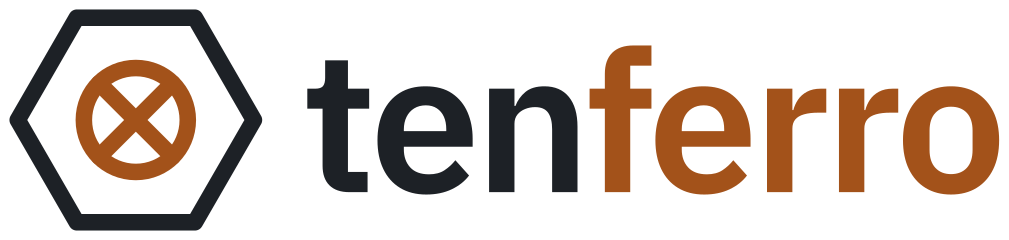
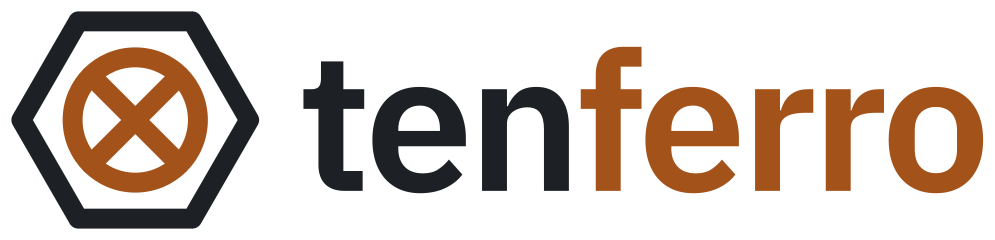
design: tighten the tenferro nut around its hole
Shrink the hex nut from circumradius 50 to 40 so it sits snugly around
the tensor-product sign. The mark keeps its height in the wordmark, so
the sign and strokes read larger. At an 80 mm wordmark the strokes are
about 1.6 mm and the gap between ring and nut about 1.3 mm.

Small icons use 9-unit strokes and a tighter view box; the avatar
background shrinks to keep the mark's proportion.

diff --git a/branding/tools/export_logos.py b/branding/tools/export_logos.py
@@ -163,10 +163,14 @@ def t4a_four(colors=None, cls=False):
 # -------------------------------------------------------------------- tenferro
 # A hex nut (ferro: iron, which rusts: Rust) with a tensor product as its hole.
 
-TF_NUT = "110,60 85,103.3 35,103.3 10,60 35,16.7 85,16.7"
+TF_NUT = "100,60 80,94.64 40,94.64 20,60 40,25.36 80,25.36"  # circumradius 40, snug around the hole
 TF_STROKE = 7.0       # heavy enough for embroidery at a left-chest size
-TF_STROKE_SMALL = 10.5
-TF_BOX = (10 - TF_STROKE / 2, 16.7 - TF_STROKE / 2, 110 + TF_STROKE / 2, 103.3 + TF_STROKE / 2)
+TF_STROKE_SMALL = 9.0
+def tf_box(sw=TF_STROKE):
+    return (20 - sw / 2, 25.36 - sw / 2, 100 + sw / 2, 94.64 + sw / 2)
+
+
+TF_BOX = tf_box()
 
 
 def tf_mark(colors=None, cls=False, sw=TF_STROKE, cross_only=False):
@@ -286,14 +290,14 @@ def main():
         box = (TF_BOX[0] - 4, TF_BOX[1] - 4, gb[2] + 4, TF_BOX[3] + 4)
         write(p, f"tenferro-wordmark{sfx}.svg", svg(box, tf_mark(c) + text, "tenferro"))
         bg = f'<rect x="-100" y="-100" width="400" height="400" fill="{c["bg"]}"/>'
-        write(p, f"tenferro-avatar{sfx}.svg", svg(square_around(TF_BOX, side=180), bg + tf_mark(c), "tenferro"))
+        write(p, f"tenferro-avatar{sfx}.svg", svg(square_around(TF_BOX, side=146), bg + tf_mark(c), "tenferro"))
     tf_auto = auto_style(FAMILY, {"ink": ("stroke", "ink"), "accent": ("stroke", "accent")})
     write(p, "tenferro-mark-auto.svg", svg(square_around(TF_BOX, 4), tf_mark(cls=True), "tenferro", tf_auto))
-    write(p, "favicon.svg", svg(square_around(TF_BOX, 6), tf_mark(cls=True, sw=TF_STROKE_SMALL), "tenferro", tf_auto))
+    write(p, "favicon.svg", svg(square_around(tf_box(TF_STROKE_SMALL), 4), tf_mark(cls=True, sw=TF_STROKE_SMALL), "tenferro", tf_auto))
     c = FAMILY["light"]
     bg = f'<rect x="-100" y="-100" width="400" height="400" fill="{c["bg"]}"/>'
-    write(p, "tenferro-icon-small.svg", svg((0, 0, 120, 120), bg + tf_mark(c, sw=TF_STROKE_SMALL), "tenferro"))
-    write(p, "tenferro-icon-16.svg", svg((0, 0, 120, 120), bg + tf_mark(c, sw=12, cross_only=True), "tenferro"))
+    write(p, "tenferro-icon-small.svg", svg(square_around(tf_box(TF_STROKE_SMALL), 4), bg + tf_mark(c, sw=TF_STROKE_SMALL), "tenferro"))
+    write(p, "tenferro-icon-16.svg", svg(square_around(tf_box(12), 4), bg + tf_mark(c, sw=12, cross_only=True), "tenferro"))
 
     # ---- colmat
     p = "colmat"

diff --git a/branding/tenferro/README.md b/branding/tenferro/README.md
@@ -15,7 +15,7 @@ The mark is a hex nut drawn as line art, with a tensor-product sign (a circled c
 - tenferro is a general tensor computation engine (einsum over any algebra, autodiff, linear algebra), not a tensor network library, so the mark uses the tensor product rather than a network diagram.
 - A nut is a part you bolt into something larger, which fits a runtime that other libraries and languages build on through its C API.
 
-The strokes are 7 units in a 120-unit box, so with the wordmark 80 mm wide (a left-chest size) they are about 1.3 mm, enough for screen printing and embroidery.
+The nut sits snugly around its hole: a hexagon of circumradius 40 around a circle of radius 22, with 7-unit strokes. With the wordmark 80 mm wide (a left-chest size) the strokes are about 1.6 mm and the clear gap between the circle and the nut about 1.3 mm, enough for screen printing and embroidery.
 
 The nut is in the ink color and the circled cross in copper. In the wordmark, **ferro** is in copper. At 16 px the circle is dropped.
 
